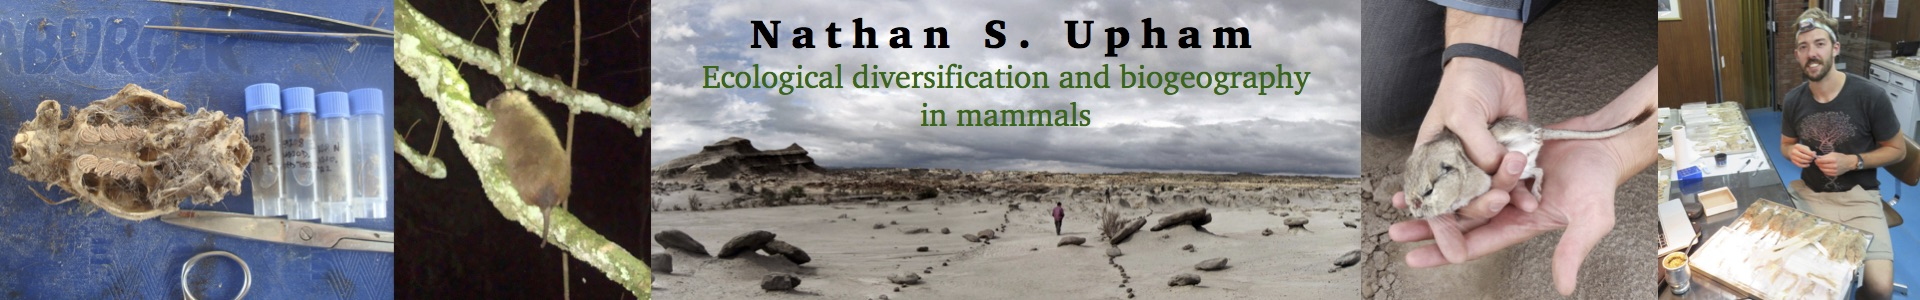
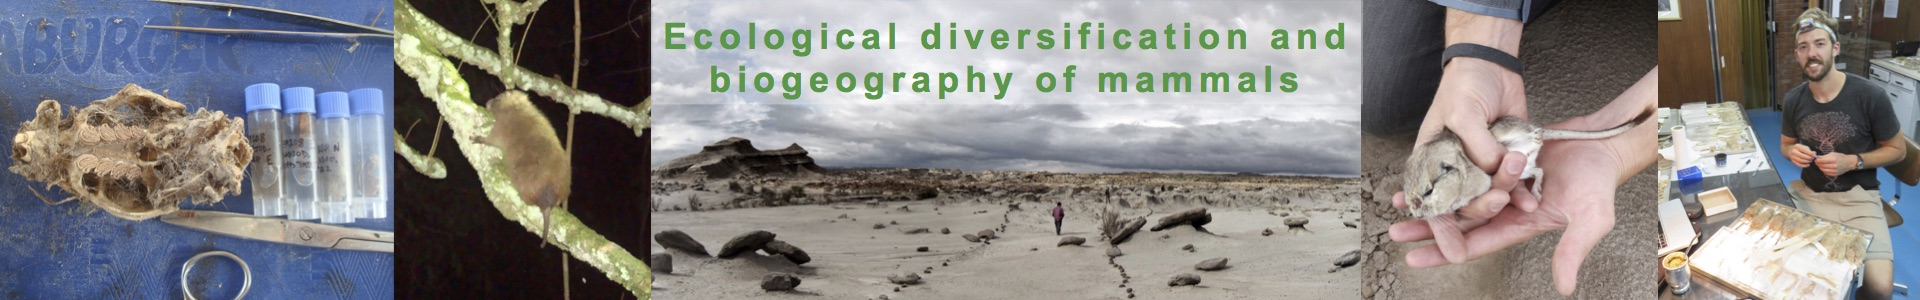
many updates

Changed region(s): [[0.3125, 0.0, 0.7188, 0.42]]

diff --git a/research/index.html b/research/index.html
@@ -1,10 +1,12 @@
 ---
 layout: default
-title: home
+title: research
+header: yes
+header_sm: images/banner-xl-blank.jpg
+header_med: images/banner-xl-blank.jpg
+header_large: images/banner-xl-blank.jpg
+header_xl: images/banner-xl-blank.jpg
 ---
-
-<article class="row">
-  <section class="small-12 large-8 columns page-content">
 
 <!--<h3>
 <b><a href="https://www.researchgate.net/profile/Nathan_Upham">Nathan S. Upham</a> | Ecological diversification and biogeography in mammals</b>
@@ -20,8 +22,3 @@ I study evolution, ecology, and biodiversity from a spatial and temporal perspec
 Through fieldwork and genomic and phylogenetic approaches, I ask questions that aim to uncover core dynamics of the eco-evolutionary process at biogeographic and population genetic scales.  I also seek to translate our findings to wide audiences through <a href="/outreach/">outreach efforts</a> and by <a href="/teaching/">teaching courses</a>, always with the aim to encourage biodiversity conservation in the tropical and arid ecosystems where I work.
 </p>
 
-  </section>
-
-    {% include asides/recent_posts.html %}
-
-</article>

diff --git a/_includes/asides/recent_posts.html b/_includes/asides/recent_posts.html
@@ -1,7 +1,14 @@
 <aside class="small-12 large-4 columns page-content recent-posts">
-  <h2>Recent Posts</h2>
+	<h3> <strong>Contact</strong>: <a href="mailto:nathan.upham@yale.edu">nathan.upham@yale.edu</a>
+    	<dd>Ecology and Evolutionary Biology</dd>
+    	<dd>Yale University</dd>
+    	<dd>165 Prospect St, OML 122</dd>
+   	 	<dd>New Haven, CT, 06511 USA</dd>
+	</h3>
+
+  <h2>Latest news...</h2>
   <ul>
-    {% for post in site.posts limit:5 site.recent_posts %}
+    {% for post in site.posts limit:3 site.recent_posts %}
       <li>
         <a href="{{ site.baseurl }}{{ post.url }}">{% if site.titlecase %}{{ post.title | titlecase }}{% else %}{{ post.title }}{% endif %}</a>
       </li>
